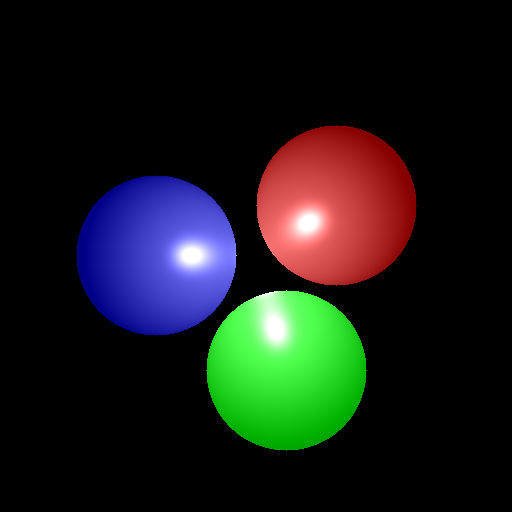
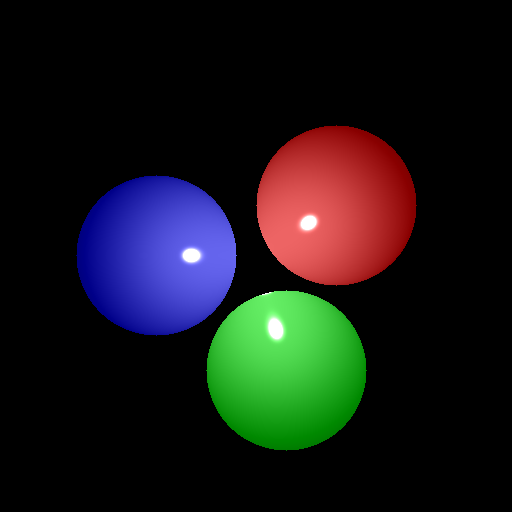
Some more fixes

Changed region(s): [[0.4062, 0.5625, 0.7188, 0.9062], [0.5312, 0.375, 0.6562, 0.5], [0.3125, 0.4375, 0.4375, 0.5625]]

diff --git a/src/Raytracer.cpp b/src/Raytracer.cpp
@@ -106,7 +106,7 @@ core::Color Raytracer::trace(core::Ray& ray, int recursiveStep)
         double c = 0.01;
 
         core::Vector V = ray.getDirection();    // observation vector
-        core::Vector L = light->getPosition() - collision; // light incidence vector
+        core::Vector L = collision - light->getPosition(); // light incidence vector
         V.normalize();
         L.normalize();
 
@@ -115,9 +115,7 @@ core::Color Raytracer::trace(core::Ray& ray, int recursiveStep)
         core::Vector R = L - (normal * (2.0 * dotNL));    //reflected vector
         R.normalize();
 
-        double dotVR = V.dotProduct(R) * -1.0; // angle betwen observation vector and reflected vector
-
-        if (dotVR < 0) dotVR = 0;
+        double dotVR = V.dotProduct(R) ; // angle betwen observation vector and reflected vector
 
         core::Vector difference = collision - light->getPosition();
 
@@ -130,7 +128,8 @@ core::Color Raytracer::trace(core::Ray& ray, int recursiveStep)
         double lightning_factor = 1.0 / (a + b*di + c*di*di);
         local = local + closestObject->getMaterial().ambient + light->getColor() * lightning_factor
         + closestObject->getMaterial().diffuse + light->getColor()  * dotNL
-        + closestObject->getMaterial().specular * light->getColor() * 0.2 * pow(dotVR, 20);
+        + closestObject->getMaterial().specular * light->getColor() * pow(dotVR, 180);
+        ;
     }
 
     return local;

diff --git a/src/shape/Sphere.cpp b/src/shape/Sphere.cpp
@@ -22,7 +22,7 @@ double Sphere::getRadius()
 
 core::Vector Sphere::getNormalAt(core::Point& p)
 {
-    core::Vector normal (core::Vector(p) - core::Vector(getPosition()));
+    core::Vector normal (core::Vector(getPosition() - core::Vector(p) ));
     normal.normalize();
     return normal;
 }
